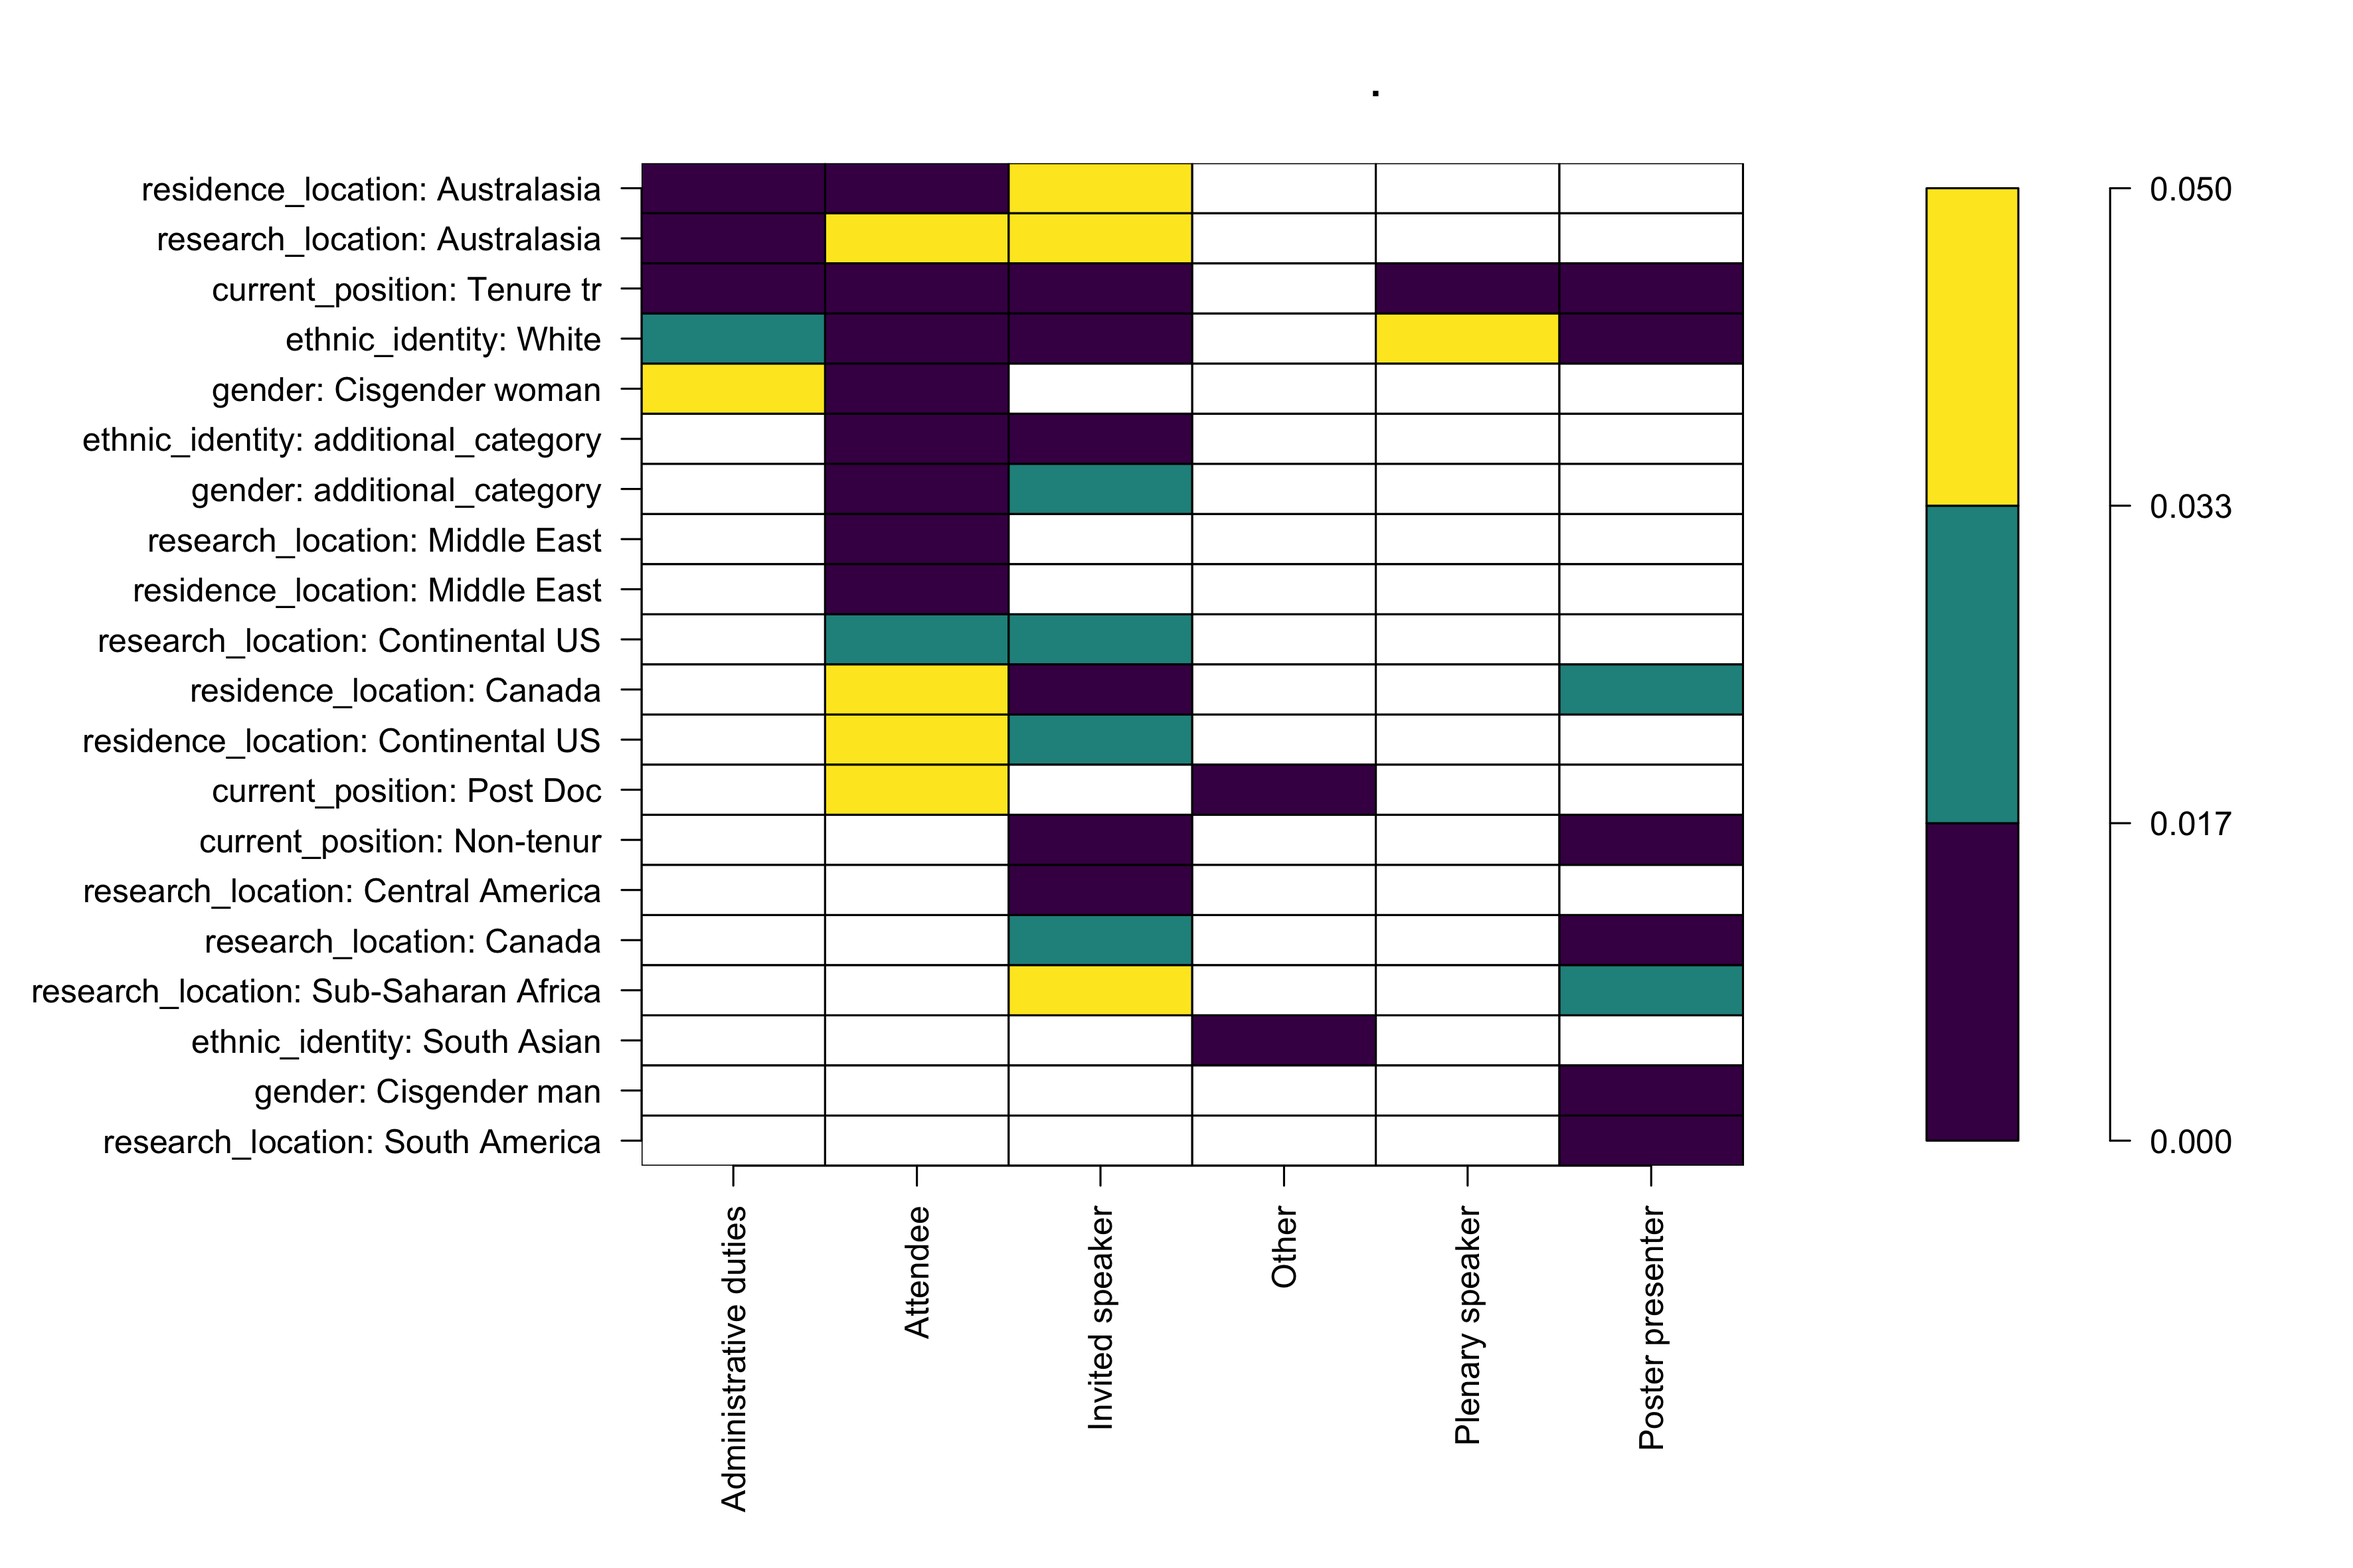
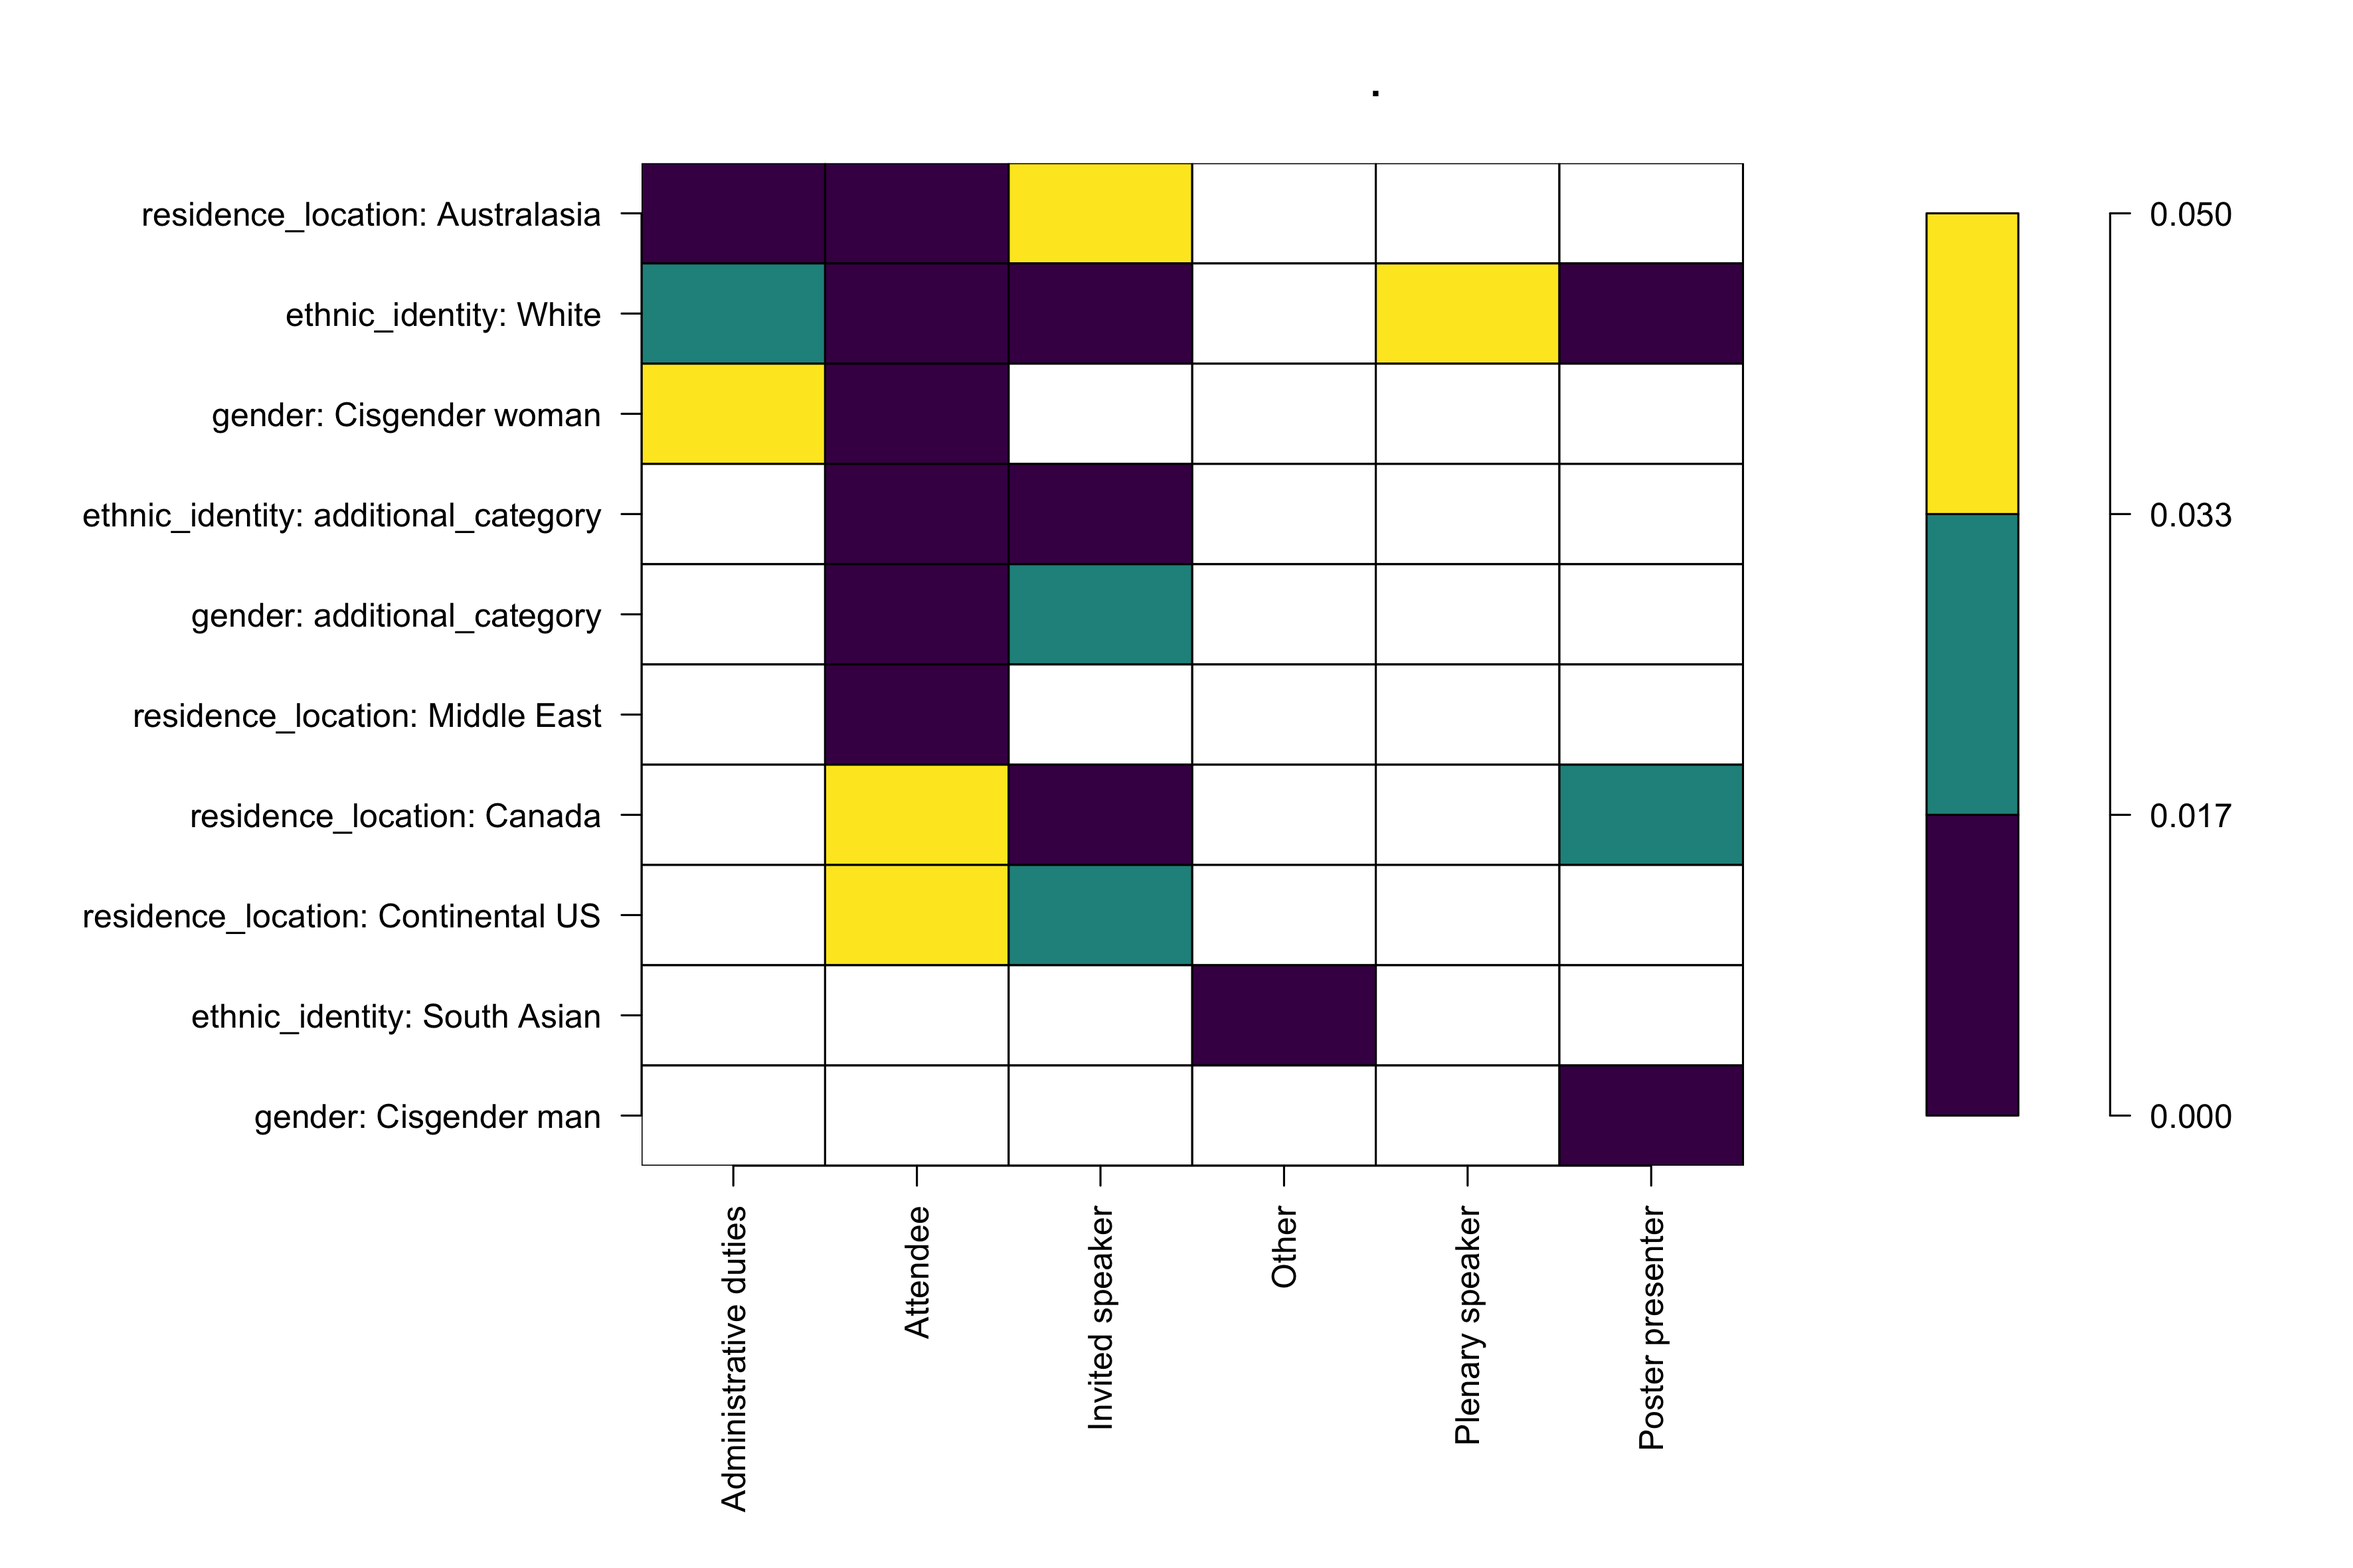
updated enrichment analyses
included only gender, residence_location, and ethnicity for comparison.

diff --git a/docs/IUSSI2022.html b/docs/IUSSI2022.html
@@ -1195,10 +1195,18 @@ library(GeneOverlap)
 # which variable do you need to use for the x-axis
 names.x &lt;- c(&quot;gender&quot;, 
              # &quot;age&quot;, 
-             &quot;residence_location&quot;, &quot;research_location&quot;,
-             &quot;current_position&quot;, &quot;ethnic_identity&quot;)
+             &quot;residence_location&quot;, 
+             # &quot;research_location&quot;,
+             # &quot;current_position&quot;, 
+             &quot;ethnic_identity&quot;)
 
-# initialize a list to hold all the possible groups that we want to plot
+writeLines(&quot;Variables of interest:&quot;)</code></pre>
+<pre><code>## Variables of interest:</code></pre>
+<pre class="r"><code>writeLines(names.x)</code></pre>
+<pre><code>## gender
+## residence_location
+## ethnic_identity</code></pre>
+<pre class="r"><code># initialize a list to hold all the possible groups that we want to plot
 # on the x-axis
 list.x &lt;- list()
 for (j in 1:length(names.x)) {
@@ -1286,7 +1294,7 @@ trash &lt;- dev.off()
 <hr />
 <p>The goal is to perform enrichment analyses (using hypergeometric analyses) to identify under (or over) represented groups (based on gender, ethnicity, etc) in different activities (roles) at IUSSI.</p>
 <blockquote>
-<p>We found several overrepresented groups for specific roles. The results are provided in the table/figure below.</p>
+<p>We found several overrepresented groups for specific roles; we did not find any significantly underrepresented terms. The overrepresented groups in different IUSSI roles are shown in the table/figure below.</p>
 </blockquote>
 <div id="results-in-a-table" class="section level3">
 <h3>Results in a table</h3>
@@ -1332,8 +1340,8 @@ bind_rows(results.list, .id = &quot;column_label&quot;) %&gt;%
     arrange(annot_term, adj_pVal) %&gt;% 
     
     DT::datatable()</code></pre>
-<div id="htmlwidget-39d758d0c4c42c960af9" style="width:100%;height:auto;" class="datatables html-widget"></div>
-<script type="application/json" data-for="htmlwidget-39d758d0c4c42c960af9">{"x":{"filter":"none","data":[["1","2","3","4","5","6","7","8","9","10","11","12","13","14","15","16","17","18","19","20","21","22","23","24","25","26","27","28","29","30","31","32","33","34","35","36","37","38","39","40","41","42","43","44","45"],["Administrative duties","Administrative duties","Administrative duties","Administrative duties","Administrative duties","Attendee","Attendee","Attendee","Attendee","Attendee","Attendee","Attendee","Attendee","Attendee","Attendee","Attendee","Attendee","Attendee","Invited speaker","Invited speaker","Invited speaker","Invited speaker","Invited speaker","Invited speaker","Invited speaker","Invited speaker","Invited speaker","Invited speaker","Invited speaker","Invited speaker","Invited speaker","Invited speaker","Other","Other","Plenary speaker","Plenary speaker","Poster presenter","Poster presenter","Poster presenter","Poster presenter","Poster presenter","Poster presenter","Poster presenter","Poster presenter","Poster presenter"],["residence_location: Australasia","research_location: Australasia","current_position: Tenure tr","ethnic_identity: White","gender: Cisgender woman","gender: Cisgender woman","current_position: Tenure tr","ethnic_identity: additional_category","ethnic_identity: White","gender: additional_category","research_location: Middle East","residence_location: Australasia","residence_location: Middle East","research_location: Continental US","residence_location: Canada","research_location: Australasia","residence_location: Continental US","current_position: Post Doc","current_position: Non-tenur","current_position: Tenure tr","ethnic_identity: White","current_position: Tenure tr","research_location: Central America","residence_location: Canada","ethnic_identity: additional_category","residence_location: Continental US","research_location: Canada","gender: additional_category","research_location: Continental US","residence_location: Australasia","research_location: Sub-Saharan Africa","research_location: Australasia","ethnic_identity: South Asian","current_position: Post Doc","current_position: Tenure tr","ethnic_identity: White","gender: Cisgender man","current_position: Non-tenur","current_position: Tenure tr","ethnic_identity: White","current_position: Tenure tr","research_location: South America","research_location: Canada","residence_location: Canada","research_location: Sub-Saharan Africa"],["over","over","over","over","over","over","over","over","over","over","over","over","over","over","over","over","over","over","over","over","over","over","over","over","over","over","over","over","over","over","over","over","over","over","over","over","over","over","over","over","over","over","over","over","over"],[0,0,0,0.024,0.034,0,0,0,0,0.001,0.001,0.008,0.016,0.024,0.045,0.045,0.047,0.049,0,0,0,0.004,0.006,0.011,0.012,0.018,0.018,0.02,0.026,0.034,0.038,0.045,0,0.013,0,0.038,0,0,0,0.001,0.004,0.012,0.014,0.019,0.029]],"container":"<table class=\"display\">\n  <thead>\n    <tr>\n      <th> <\/th>\n      <th>annot_term<\/th>\n      <th>what_desc<\/th>\n      <th>over_under<\/th>\n      <th>adj_pVal<\/th>\n    <\/tr>\n  <\/thead>\n<\/table>","options":{"columnDefs":[{"className":"dt-right","targets":4},{"orderable":false,"targets":0}],"order":[],"autoWidth":false,"orderClasses":false}},"evals":[],"jsHooks":[]}</script>
+<div id="htmlwidget-2e1b3378e5886f57b204" style="width:100%;height:auto;" class="datatables html-widget"></div>
+<script type="application/json" data-for="htmlwidget-2e1b3378e5886f57b204">{"x":{"filter":"none","data":[["1","2","3","4","5","6","7","8","9","10","11","12","13","14","15","16","17","18","19","20","21","22"],["Administrative duties","Administrative duties","Administrative duties","Attendee","Attendee","Attendee","Attendee","Attendee","Attendee","Attendee","Attendee","Invited speaker","Invited speaker","Invited speaker","Invited speaker","Invited speaker","Invited speaker","Other","Plenary speaker","Poster presenter","Poster presenter","Poster presenter"],["residence_location: Australasia","ethnic_identity: White","gender: Cisgender woman","gender: Cisgender woman","ethnic_identity: additional_category","ethnic_identity: White","gender: additional_category","residence_location: Australasia","residence_location: Middle East","residence_location: Canada","residence_location: Continental US","ethnic_identity: White","residence_location: Canada","ethnic_identity: additional_category","residence_location: Continental US","gender: additional_category","residence_location: Australasia","ethnic_identity: South Asian","ethnic_identity: White","gender: Cisgender man","ethnic_identity: White","residence_location: Canada"],["over","over","over","over","over","over","over","over","over","over","over","over","over","over","over","over","over","over","over","over","over","over"],[0,0.024,0.034,0,0,0,0.001,0.008,0.016,0.045,0.047,0,0.011,0.012,0.018,0.02,0.034,0,0.038,0,0.001,0.019]],"container":"<table class=\"display\">\n  <thead>\n    <tr>\n      <th> <\/th>\n      <th>annot_term<\/th>\n      <th>what_desc<\/th>\n      <th>over_under<\/th>\n      <th>adj_pVal<\/th>\n    <\/tr>\n  <\/thead>\n<\/table>","options":{"columnDefs":[{"className":"dt-right","targets":4},{"orderable":false,"targets":0}],"order":[],"autoWidth":false,"orderClasses":false}},"evals":[],"jsHooks":[]}</script>
 <hr />
 <blockquote>
 <p>And, here are the results as a heatmap.</p>
@@ -1393,20 +1401,34 @@ trash &lt;- dev.off()</code></pre>
 Results of the enrichment test; colors indicate p-values returned by the hypergeometric test. Lower p-values suggest possible over-representation.
 </p>
 </div>
+<blockquote>
+<p>So, what does the data tell us?</p>
+</blockquote>
+<p>Write down the possible interpretations here. For example, the above figure tells us that</p>
+<ul>
+<li><p>Folks of <em>ethnic_identity: white</em> are overrepresented in most roles at IUSSI,</p></li>
+<li><p>Folks that relate to <em>gender: Cisgender woman</em> participate in IUSSI as attendees or as administrators more than expected at random,</p></li>
+<li><p>and so on.</p></li>
+</ul>
 <hr />
 </div>
 </div>
+<div id="what-next" class="section level2">
+<h2>What next?</h2>
+<p><em>My thoughts</em>: Once we, the committee, have all the summary statistics (and figures), and interpretations from the enrichment analyses, we should be ready to put together a brief document (pdf) for circulation. We might be able to highlight a few areas that we can improve on in the near future, and a few areas that we need to work on in the long-term.</p>
+<hr />
+</div>
 <div id="supplementary" class="section level2">
 <h2>Supplementary</h2>
-<div id="reproducibility" class="section level3">
-<h3>1. Reproducibility</h3>
+<div id="reproducibility" class="section level4">
+<h4>1. Reproducibility</h4>
 <ul>
 <li><p>All code used for this document is available on my <a href="https://github.com/biplabendu/homepage/blob/master/IUSSI2022.Rmd">Github</a>.</p></li>
 <li><p>The function to perform enrichment analyses can be found <a href="https://github.com/biplabendu/homepage/blob/master/functions/underrepresentation_analyses.R">here</a></p></li>
 </ul>
 </div>
-<div id="iussi-2014-2018" class="section level3">
-<h3>2. IUSSI 2014 &amp; 2018</h3>
+<div id="iussi-2014-2018" class="section level4">
+<h4>2. IUSSI 2014 &amp; 2018</h4>
 <p>A summary of the demography data for folks that attended IUSSI 2014 and 2018 can be found <a href="https://biplabendu.github.io/homepage/IUSSI.html">here</a>.</p>
 </div>
 </div>
